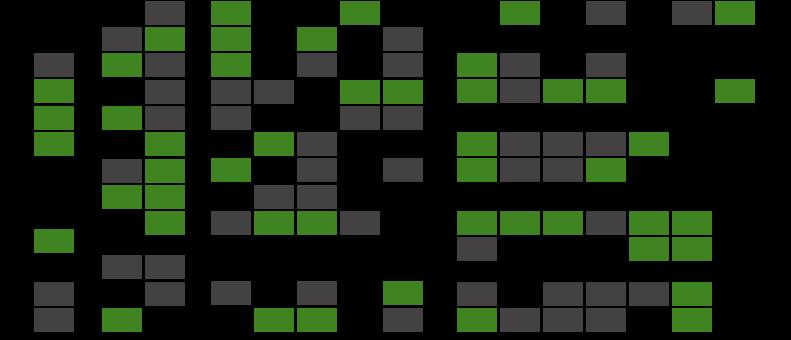
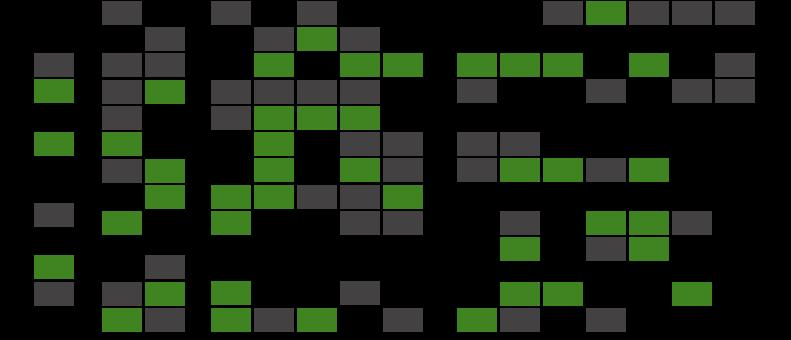
image_generation,check_difference 파일추가 Main2에 json변환부분 추가

diff --git a/seat_detect/mainForTesting.py b/seat_detect/mainForTesting.py
@@ -2,6 +2,7 @@ import cv2
 import numpy as np
 from seat_detect import Histogram2 as h, Decide_matrix2 as dm, Image_partitioning as ip, Color_detect2 as cd, \
     grid2 as g, bit2 as b
+
 import json
 
 def json_convert(seats):
@@ -11,26 +12,26 @@ def json_convert(seats):
     fj.write(jsonString)
     fj.close()
 
-def main():
-    # 분석할 pc방 좌석도 가져오기
-    image = cv2.imread("random_generated.jpg")
-    # cv2.line(image, (427, 0), (427, 50), (255, 0, 0), 2)
-    #cv2.imshow("pcroom", image)
+def mainTest():
+    #분석할 pc방 좌석도 가져오기
+    image = cv2.imread("random_generated0.jpg")
+    cv2.imshow("pcroom", image)
+
+
+    f = open("test.txt",'w')
 
     #json 파일 만들기 위한 dictionary
     dic_for_json = {}
     seats = []
 
-    f = open("test.txt", 'w')
-
-    # image의 size
+    #image의 size
     image_h, image_w = image.shape[:2]
-    f.write("%d %d\n" % (image_h, image_w))
+    f.write("%d %d\n"%(image_h,image_w))
     dic_for_json["image_h"] = image_h
     dic_for_json["image_w"] = image_w
-    # print(image_w, image_h)
+    #print(image_w, image_h)
 
-    # 분석을 위해 이미지 가공
+    #분석을 위해 이미지 가공
     gray = cv2.cvtColor(image, cv2.COLOR_BGR2GRAY)
     ret, thresh = cv2.threshold(gray, 22, 255, cv2.THRESH_BINARY)
 
@@ -38,45 +39,48 @@ def main():
     hist_w, mhist_w = h.histogram(thresh, 0, image_w, image_h)  # height
     hist_h, mhist_h = h.histogram(thresh, 1, image_w, image_h)  # width
 
-    # <Decide_matrix2>
+    #<Decide_matrix2>
 
-    # 1. 좌석 한 개의 가로, 세로 길이 구하기 + 좌석 분포가 비정상인 경우 추출(=여러 좌석이 뭉쳐서 나타나는 경우)
+    #1. 좌석 한 개의 가로, 세로 길이 구하기 + 좌석 분포가 비정상인 경우 추출(=여러 좌석이 뭉쳐서 나타나는 경우)
     seat_w, innormal_w = dm.analyze_seat_wh(mhist_w)
     seat_h, innormal_h = dm.analyze_seat_wh(mhist_h)
-
-    f.write("%d %d\n" % (seat_w, seat_h))
     dic_for_json["seat_h"] = seat_h
     dic_for_json["seat_w"] = seat_w
 
-    # 2. 빈 공간의 분포가 넓은 부분 추출해내기
+
+    f.write("%d %d\n" % (seat_w, seat_h))
+
+    #2. 빈 공간의 분포가 넓은 부분 추출해내기
     blanks_w = dm.analyze_blank_wh(mhist_w)
     blanks_h = dm.analyze_blank_wh(mhist_h)
 
-    # 3. 빈 공간의 분포를 기준으로 하여 영역 별로 이미지 쪼개기
+    #3. 빈 공간의 분포를 기준으로 하여 영역 별로 이미지 쪼개기
     roi_points = ip.image_partition(image, blanks_w, blanks_h)
-    # print(roi_points)   # roi_points = 한 영역의 가장 끝과 끝 좌표(한 영역 당 2쌍)
+    #print(roi_points)   # roi_points = 한 영역의 가장 끝과 끝 좌표(한 영역 당 2쌍)
 
-    image_parts = []
-    for i in range(int(len(roi_points) / 2)):  # for문: 이미지 영역의 갯수
+    image_parts=[]
+
+    for i in range(int(len(roi_points)/2)):
+        #for문: 이미지 영역의 갯수
         # 쪼개려는 부분의 좌표를 통해 이미지 영역 분할
-        pimage = ip.set_roi(image, roi_points[i * 2], roi_points[i * 2 + 1])  # 전체 이미지, x좌표, y좌표
+        pimage = ip.set_roi(image, roi_points[i * 2], roi_points[i * 2 + 1])    #전체 이미지, x좌표, y좌표
         image_parts.append(pimage)  # 쪼개진 이미지 영역 보관
 
-        #cv2.imshow("pimage", pimage)
-        # cv2.waitKey(0)
+        cv2.imshow("pimage", pimage)
+        cv2.waitKey(0)
 
         # 기존 이미지의 threshold 역시 같은 규격으로 분할한다.
         pthresh = ip.set_roi(thresh, roi_points[i * 2], roi_points[i * 2 + 1])
 
         # 쪼개진 이미지 영역의 histogram을 추가로 추출
-        pimage_h, pimage_w = pimage.shape[:2]  # 분할한 이미지 영역의 사이즈
+        pimage_h, pimage_w = pimage.shape[:2]   # 분할한 이미지 영역의 사이즈
         phist_w, pmhist_w = h.histogram(pthresh, 0, pimage_w, pimage_h)  # height
         phist_h, pmhist_h = h.histogram(pthresh, 1, pimage_w, pimage_h)  # width
 
         # 좌석 라인 별로 나누기
         # line 위치 파악
-        lines = dm.seat_line(pmhist_h)  # 이미지 영역에서 추출한 좌석 line들의 위치
-        y_points = dm.set_line_roi(lines, seat_h)  # line의 시작, 끝 y좌표점
+        lines = dm.seat_line(pmhist_h)  #이미지 영역에서 추출한 좌석 line들의 위치
+        y_points = dm.set_line_roi(lines, seat_h)    #line의 시작, 끝 y좌표점
 
         # 영역 이미지 내에서 이제 좌석 line 하나씩 분석한다
         for j in range(len(y_points)):
@@ -92,14 +96,14 @@ def main():
             # 좌석 개체 좌표에 해당하는 부분 색상분석
             occupied_list, empty_list = cd.seat_color_detect(roi_img, seat_list, seat_w, seat_h)
 
-            print(seat_list)
-            start_x = seat_list[0][0]  # 해당 좌석 시작하는 x 좌표
+            #print(seat_list)
+            start_x = seat_list[0][0]   # 해당 좌석 시작하는 x 좌표
             # matrix 선언
-            # roi_matrix = dm.define_matrix(pmhist_w, start_x, seat_w)
+            #roi_matrix = dm.define_matrix(pmhist_w, start_x, seat_w)
             roi_matrix = dm.define_matrix(pimage_w, seat_w)
 
             # matrix 영역 안에 개체 리스트가 존재하는지 확인
-            # roi_matrix = g.seat_collision(roi_matrix, seat_w, seat_h, start_x, occupied_list, empty_list)
+            #roi_matrix = g.seat_collision(roi_matrix, seat_w, seat_h, start_x, occupied_list, empty_list)
             roi_matrix = g.seat_collision(roi_matrix, seat_w, pimage_w, occupied_list, empty_list)
 
             # matrix를 숫자로 전환
@@ -108,26 +112,25 @@ def main():
 
             # db 입력 시, 함께 저장할 좌석 line의 시작 좌표 (전체 이미지 기준)
             db_x, db_y = b.starting_point(i, roi_points, y_points[j][0])
-            print("x: ", db_x, ", y: ", db_y)
+            print("x: ",db_x, ", y: ", db_y)
 
-            f.write("%d %d" % (db_x, db_y))
-
+            f.write("%d %d"%(db_x,db_y))
             f.write("\n")
-
             # DB에 저장된 숫자를 다시 matrix 형으로 반환
             new_matrix = b.num_to_matrix(num, roi_matrix)
             print(roi_matrix)
+            cnt = 0
             for mat in roi_matrix:
-                f.write("%d " % mat)
+                f.write("%d "%mat)
             f.write("\n")
-
+            #print("new ", new_matrix)
             seats.append({"x": db_x, "y": db_y, "list": roi_matrix})
-            # print("new ", new_matrix)
-            # key = cv2.waitKey(0)
 
+            #key = cv2.waitKey(0)
+
+    f.close()
     #json_convert함수에 dictionary 넘겨줌
     dic_for_json["seats"] = seats
     json_convert(dic_for_json)
 
-
-main()
+mainTest()

diff --git a/seat_detect/image_generation.py b/seat_detect/image_generation.py
@@ -14,14 +14,14 @@ def imageGen():
     fw.write("%d %d\n" %(winy, winx))
     fw.write("%d %d\n" %(seat_w, seat_h))
 
-    win1 = GraphWin("zz", winx, winy)
-    win1.setBackground(color_rgb(0, 0, 0))
+    #win1 = GraphWin("zz", winx, winy)
+    #win1.setBackground(color_rgb(0, 0, 0))
 
     image = Image.new("RGB", (winx, winy), color_rgb(0,0,0))
     draw = ImageDraw.Draw(image)
 
-    win1.update()
-    win1.postscript(file="file_name.ps", colormode='color')
+    #win1.update()
+    #win1.postscript(file="file_name.ps", colormode='color')
 
     for i in range(42):
         x,y = map(int, f.readline().split())
@@ -29,7 +29,7 @@ def imageGen():
         num = f.readline()
 
         for j in range(int(num)):
-            rec = Rectangle(Point(x, y), Point(x+seat_w, y+seat_h))
+            #rec = Rectangle(Point(x, y), Point(x+seat_w, y+seat_h))
             col = randint(0,2)
 
             if col==0:
@@ -40,8 +40,8 @@ def imageGen():
                 colrgb = color_rgb(64, 132, 34)
             fw.write("%d "%col)
 
-            rec.setFill(colrgb)
-            rec.draw(win1)
+            #rec.setFill(colrgb)
+            #rec.draw(win1)
             draw.rectangle([(x,y),(x+seat_w, y+seat_h)],fill=colrgb)
 
             x=x+4+seat_w
@@ -52,8 +52,8 @@ def imageGen():
     filename = "random_generated.jpg"
     image.save(filename)
 
-    win1.getMouse() # Pause to view result
-    win1.close()    # Close window when done
+    #win1.getMouse() # Pause to view result
+    #win1.close()    # Close window when done
 
 
 imageGen()

diff --git a/seat_detect/check_differnce.py b/seat_detect/check_differnce.py
@@ -4,7 +4,7 @@ f0 = open('diff_check.txt','w')
 
 for i in range(1000):
     f0.write("Test Case no %d\n"%i)
-    imageGen()
+    image_generation.imageGen()
     Main2.main()
 
     # Open file for reading in text mode (default mode)
@@ -30,17 +30,25 @@ for i in range(1000):
 
             # If a line does not exist on file2 then mark the output with + sign
             if f2_line == '' and f1_line != '':
-                f0.write(">+", "Line-%d\n" % line_no, f1_line)
+                f0.write(">+")
+                f0.write("Line-%d\n" % line_no)
+                f0.write(f1_line)
             # otherwise output the line on file1 and mark it with > sign
             elif f1_line != '':
-                f0.write(">", "Line-%d\n" % line_no, f1_line)
+                f0.write(">")
+                f0.write("Line-%d\n" % line_no)
+                f0.write(f1_line)
 
             # If a line does not exist on file1 then mark the output with + sign
             if f1_line == '' and f2_line != '':
-                f0.write("<+", "Line-%d\n" % line_no, f2_line)
+                f0.write("<+")
+                f0.write("Line-%d\n" % line_no)
+                f0.write(f2_line)
             # otherwise output the line on file2 and mark it with < sign
             elif f2_line != '':
-                f0.write("<", "Line-%d\n" % line_no, f2_line)
+                f0.write("<")
+                f0.write("Line-%d\n" % line_no)
+                f0.write(f2_line)
 
             # Print a blank line
                 f0.write("\n")
